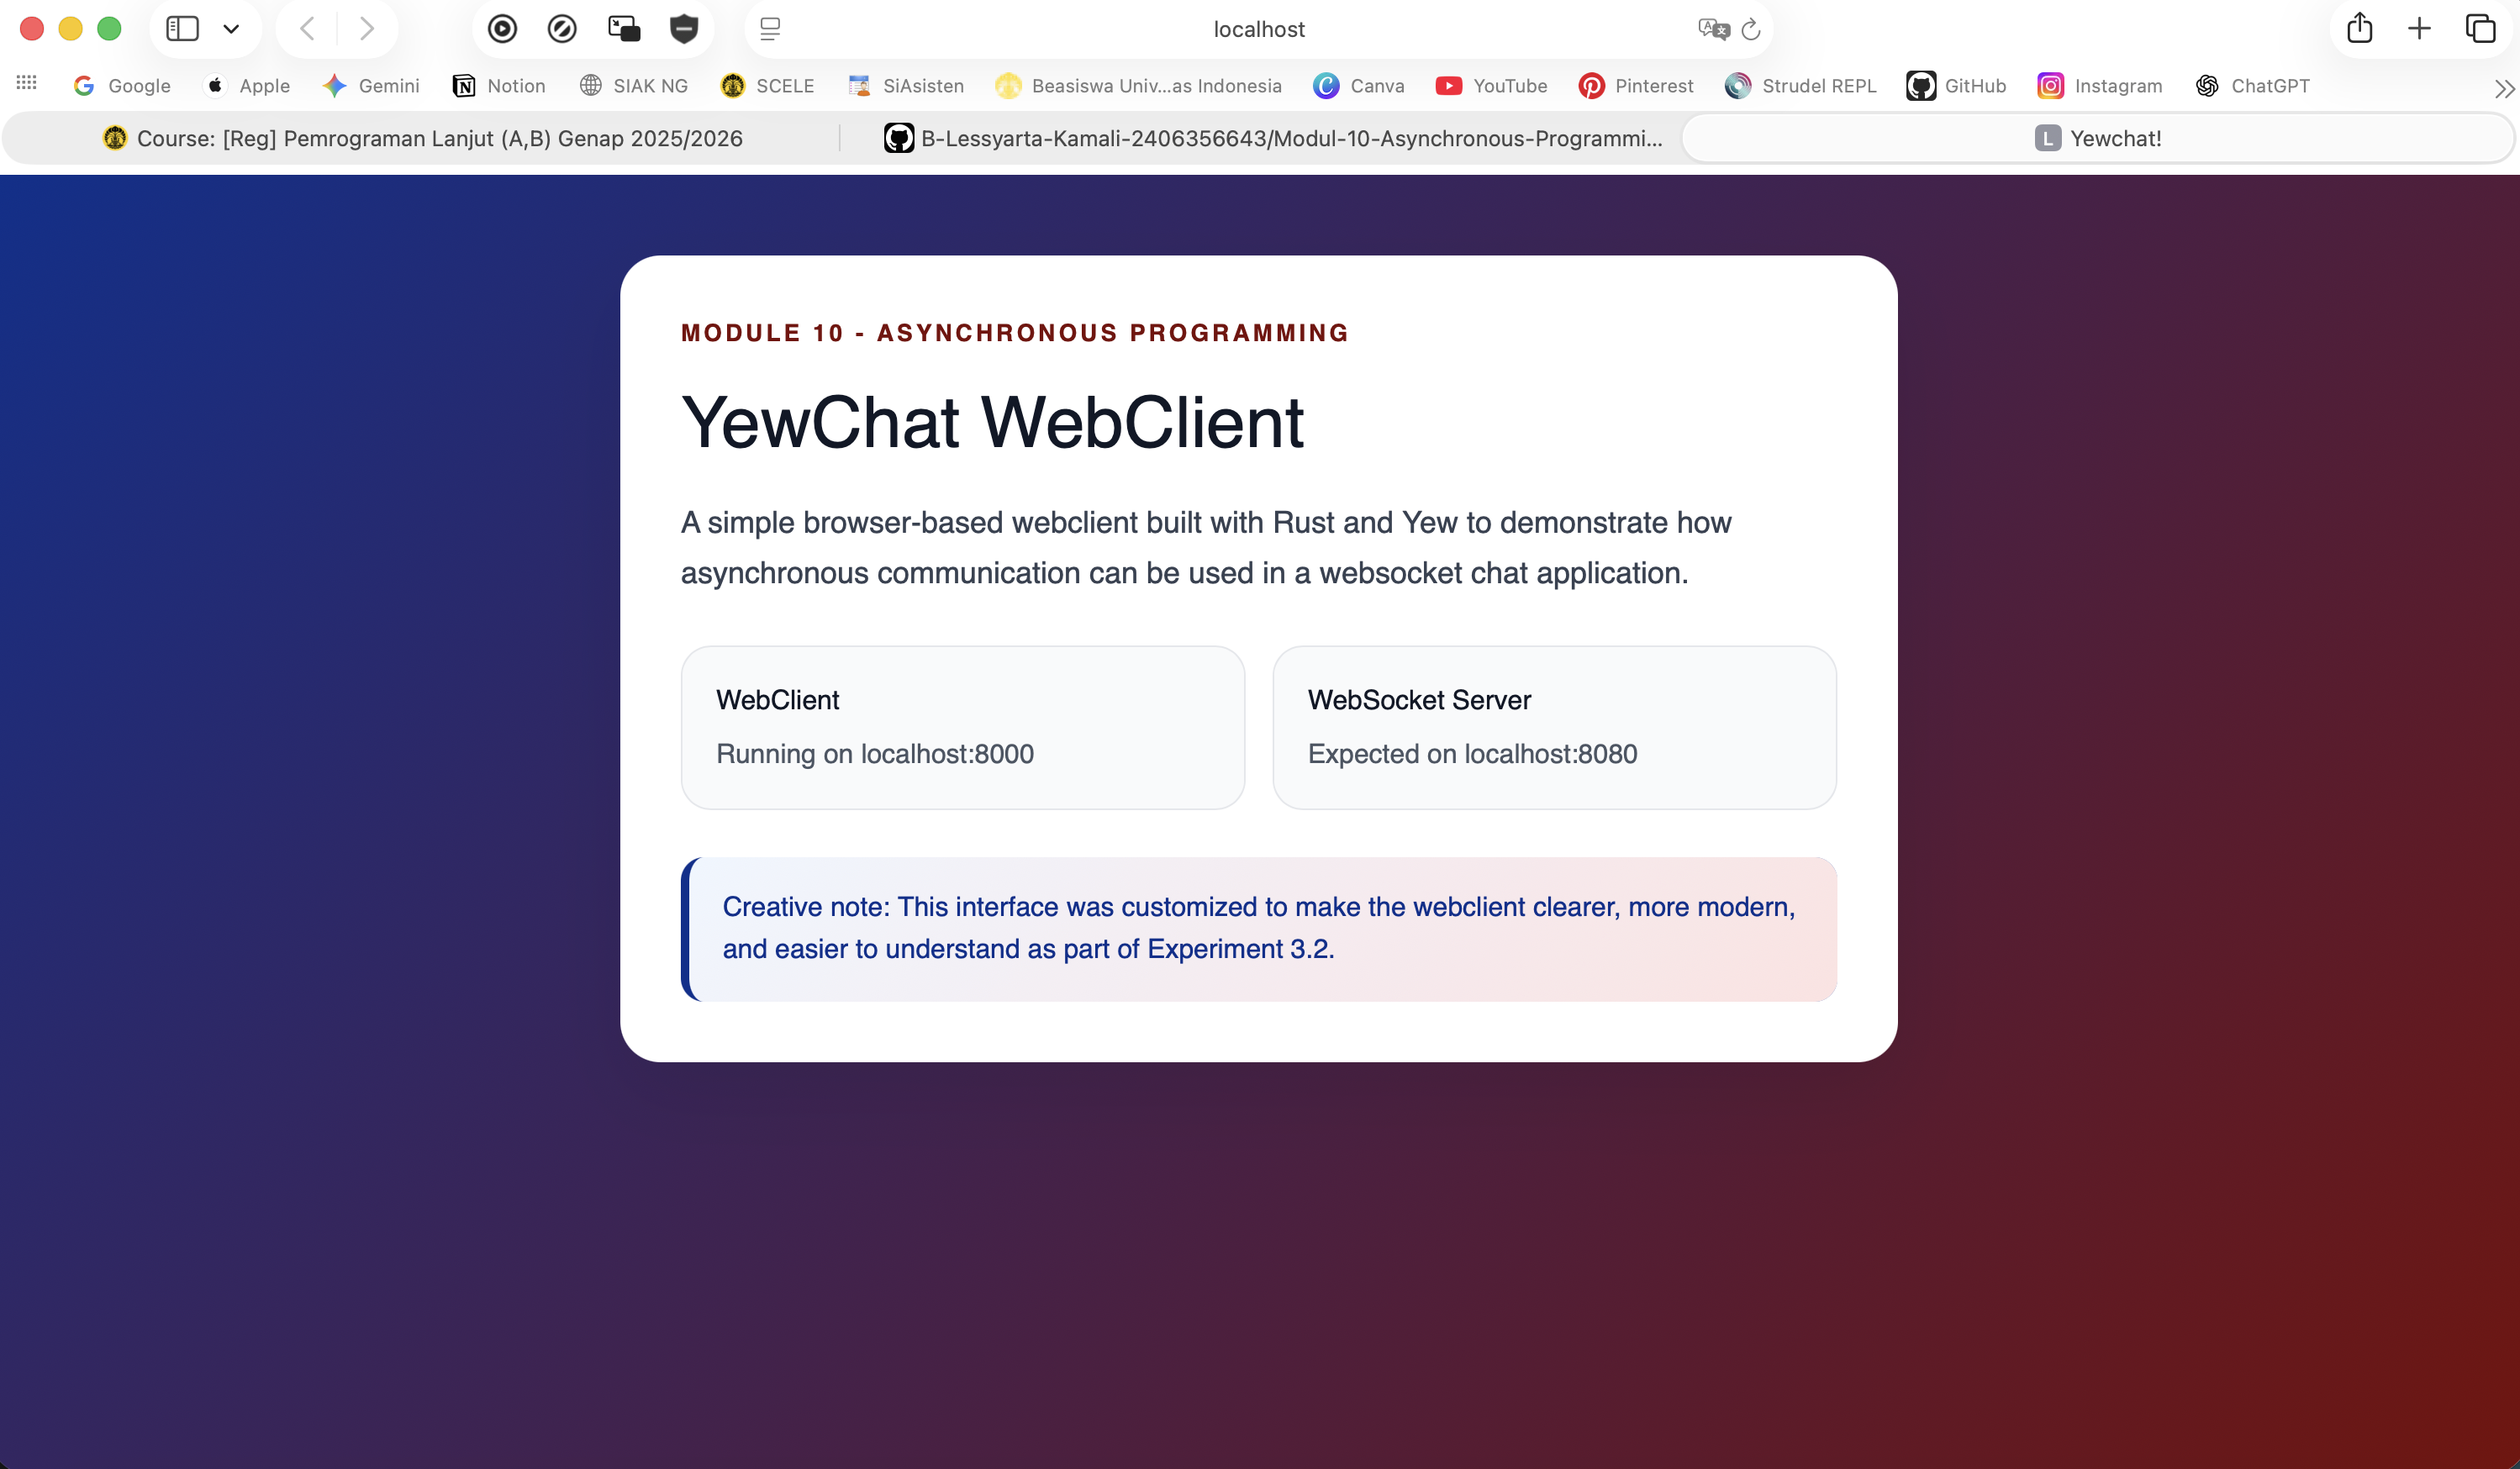
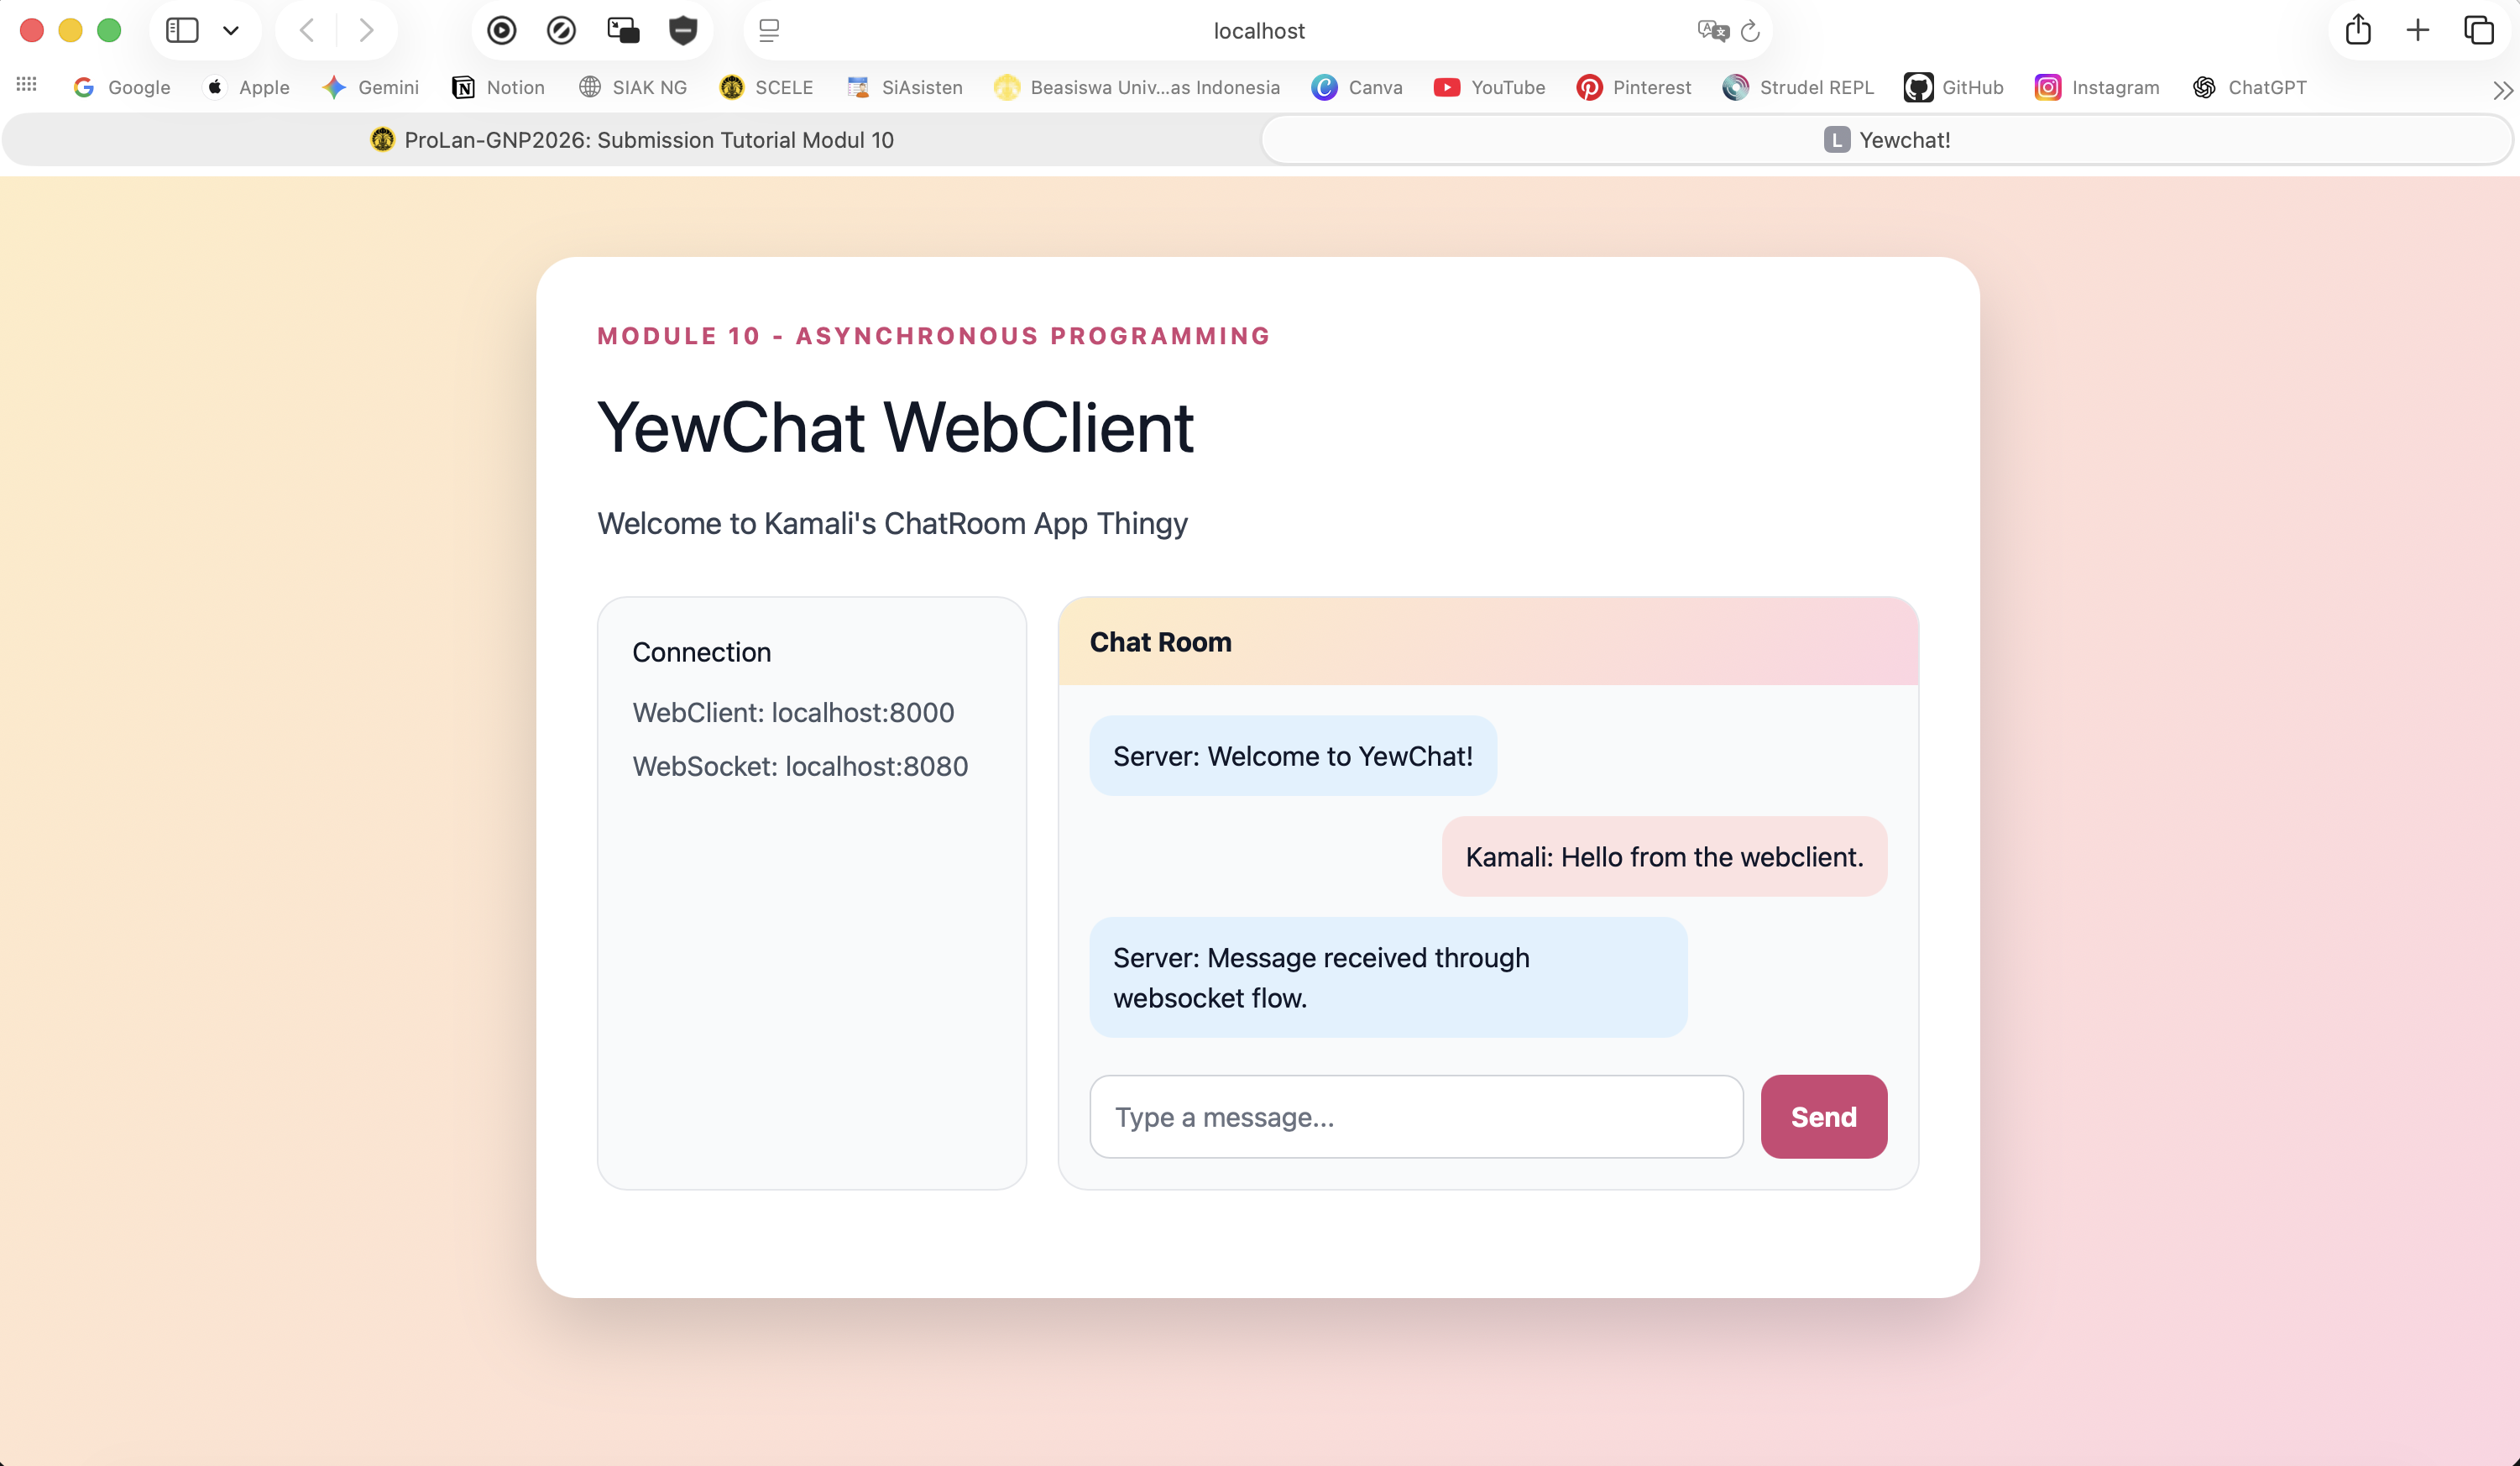
Improve Experiment 3.2 YewChat chat interface

diff --git a/YewChat/src/lib.rs b/YewChat/src/lib.rs
@@ -16,9 +16,9 @@ static ALLOC: wee_alloc::WeeAlloc = wee_alloc::WeeAlloc::INIT;
 #[function_component(Main)]
 fn main_component() -> Html {
     html! {
-        <div style="font-family: Poppins, sans-serif; min-height: 100vh; background: linear-gradient(135deg, #05308e, #790606); padding: 48px;">
-            <div style="max-width: 760px; margin: 0 auto; background: white; border-radius: 24px; padding: 36px; box-shadow: 0 20px 45px rgba(15, 23, 42, 0.12);">
-                <div style="font-size: 14px; letter-spacing: 2px; text-transform: uppercase; color: #790606; font-weight: 700; margin-bottom: 12px;">
+        <div style="font-family: -apple-system, BlinkMacSystemFont, 'Helvetica Neue', Arial, sans-serif; min-height: 100vh; background: linear-gradient(135deg, #ffecc5, #ffd4e2); padding: 48px;">
+            <div style="max-width: 860px; margin: 0 auto; background: white; border-radius: 24px; padding: 36px; box-shadow: 0 20px 45px rgba(15, 23, 42, 0.18);">
+                <div style="font-size: 14px; letter-spacing: 2px; text-transform: uppercase; color: #ce4573; font-weight: 700; margin-bottom: 12px;">
                     { "Module 10 - Asynchronous Programming" }
                 </div>
 
@@ -27,23 +27,46 @@ fn main_component() -> Html {
                 </h1>
 
                 <p style="font-size: 18px; line-height: 1.7; color: #374151; margin-bottom: 28px;">
-                    { "A simple browser-based webclient built with Rust and Yew to demonstrate how asynchronous communication can be used in a websocket chat application." }
+                    { "Welcome to Kamali's ChatRoom App Thingy" }
                 </p>
 
-                <div style="display: grid; grid-template-columns: repeat(2, minmax(0, 1fr)); gap: 16px; margin-bottom: 28px;">
+                <div style="display: grid; grid-template-columns: 1fr 2fr; gap: 18px; margin-bottom: 28px;">
                     <div style="border: 1px solid #e5e7eb; border-radius: 18px; padding: 20px; background: #f9fafb;">
-                        <h3 style="margin: 0 0 8px 0; color: #111827;">{ "WebClient" }</h3>
-                        <p style="margin: 0; color: #4b5563;">{ "Running on localhost:8000" }</p>
+                        <h3 style="margin: 0 0 12px 0; color: #111827;">{ "Connection" }</h3>
+                        <p style="margin: 0 0 8px 0; color: #4b5563;">{ "WebClient: localhost:8000" }</p>
+                        <p style="margin: 0; color: #4b5563;">{ "WebSocket: localhost:8080" }</p>
                     </div>
 
-                    <div style="border: 1px solid #e5e7eb; border-radius: 18px; padding: 20px; background: #f9fafb;">
-                        <h3 style="margin: 0 0 8px 0; color: #111827;">{ "WebSocket Server" }</h3>
-                        <p style="margin: 0; color: #4b5563;">{ "Expected on localhost:8080" }</p>
-                    </div>
-                </div>
+                    <div style="border: 1px solid #e5e7eb; border-radius: 18px; background: #f9fafb; overflow: hidden;">
+                        <div style="background: linear-gradient(135deg, #ffecc5, #ffd4e2); color: #111827; padding: 14px 18px; font-weight: 700;">
+                            { "Chat Room" }
+                        </div>
 
-                <div style="background: linear-gradient(135deg, #eff6ff, #fee2e2); border-left: 5px solid #05308e; padding: 18px 20px; border-radius: 14px; color: #05308e; line-height: 1.6;">
-                    { "Creative note: This interface was customized to make the webclient clearer, more modern, and easier to understand as part of Experiment 3.2." }
+                        <div style="padding: 18px; display: flex; flex-direction: column; gap: 12px;">
+                            <div style="align-self: flex-start; max-width: 75%; background: #e0f2fe; color: #0f172a; padding: 12px 14px; border-radius: 14px;">
+                                { "Server: Welcome to YewChat!" }
+                            </div>
+
+                            <div style="align-self: flex-end; max-width: 75%; background: #fee2e2; color: #0f172a; padding: 12px 14px; border-radius: 14px;">
+                                { "Kamali: Hello from the webclient." }
+                            </div>
+
+                            <div style="align-self: flex-start; max-width: 75%; background: #e0f2fe; color: #0f172a; padding: 12px 14px; border-radius: 14px;">
+                                { "Server: Message received through websocket flow." }
+                            </div>
+
+                            <div style="display: flex; gap: 10px; margin-top: 10px;">
+                                <input
+                                    value="Type a message..."
+                                    readonly=true
+                                    style="flex: 1; padding: 12px 14px; border: 1px solid #d1d5db; border-radius: 12px; color: #6b7280;"
+                                />
+                                <button style="padding: 12px 18px; border: none; border-radius: 12px; background: #ce4573; color: white; font-weight: 700;">
+                                    { "Send" }
+                                </button>
+                            </div>
+                        </div>
+                    </div>
                 </div>
             </div>
         </div>

diff --git a/README.md b/README.md
@@ -143,7 +143,7 @@ Setelah penyesuaian tersebut, webclient berhasil dijalankan dan dapat menampilka
 
 Pada eksperimen ini, saya menambahkan kreativitas pada webclient YewChat dengan mengubah tampilan halaman utama agar lebih menarik dan mudah dipahami. Perubahan dilakukan pada file src/lib.rs, pada komponen Main yang dirender oleh Yew.
 
-Saya menambahkan layout berbentuk card, background gradient Biru Merah, judul yang lebih jelas, informasi port webclient dan websocket server, dan catatan kreatif mengenai tujuan eksperimen. Perubahan ini tidak mengubah konsep utama dari tutorial, tetapi membuat tampilan webclient lebih informatif secara visual.
+Saya menambahkan layout berbentuk card, background gradient yellow and pink, judul yang lebih jelas, informasi port webclient dan websocket server, dan chat interface. Perubahan ini tidak mengubah konsep utama dari tutorial, tetapi membuat tampilan webclient lebih informatif secara visual.
 
 Webclient tetap dijalankan melalui localhost:8000, sedangkan websocket server tetap berjalan pada localhost:8080. Dengan perubahan ini, pengguna dapat langsung memahami bahwa aplikasi terdiri dari dua bagian, yaitu webclient berbasis Yew dan websocket server.
 